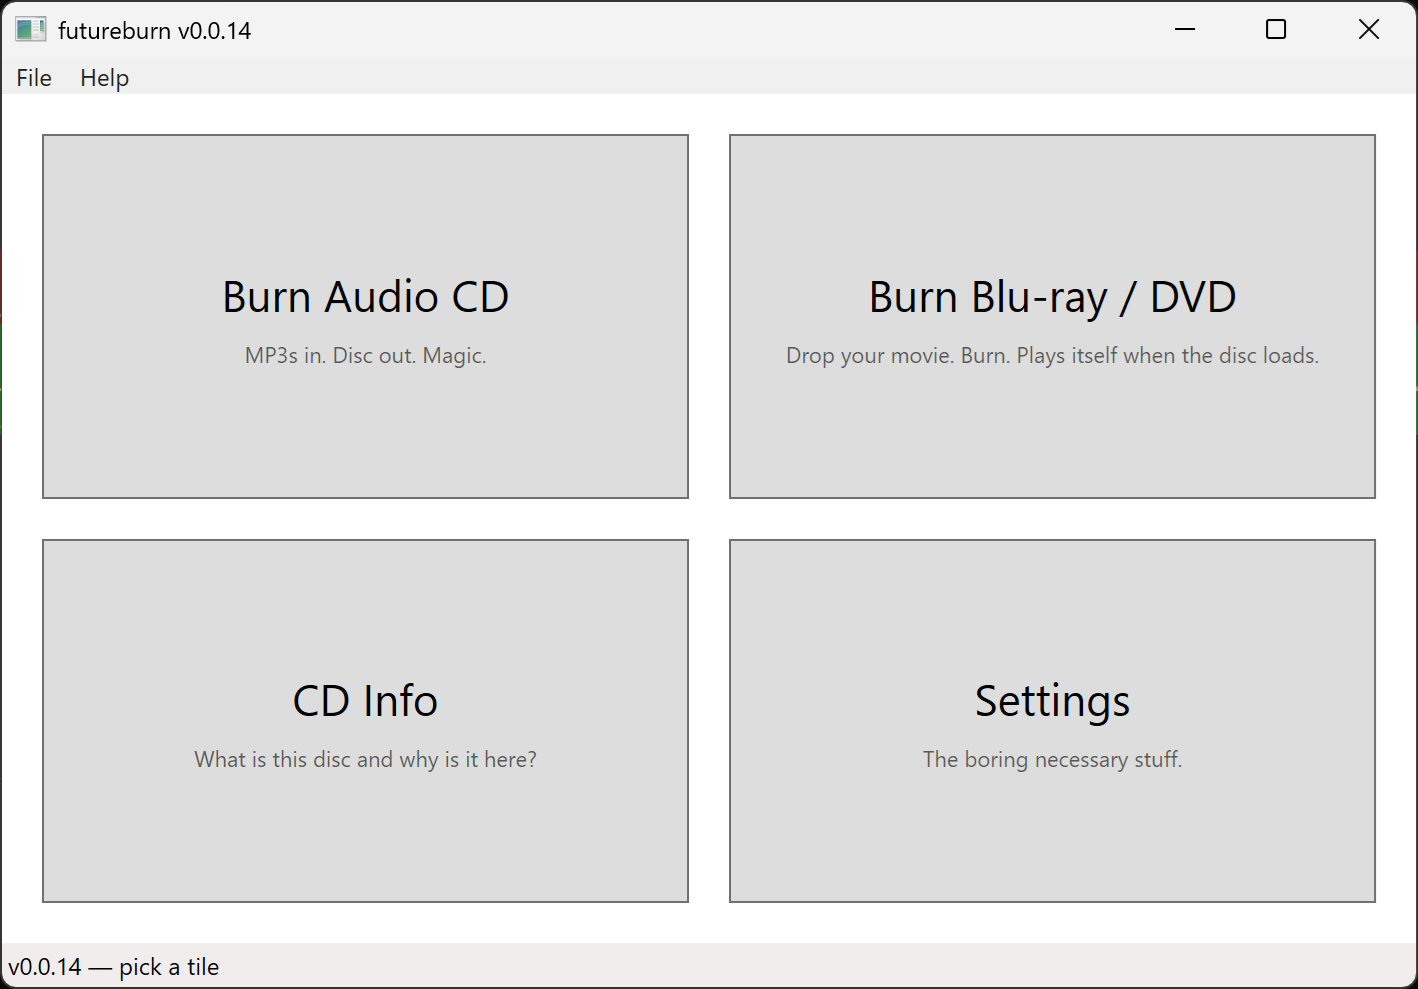
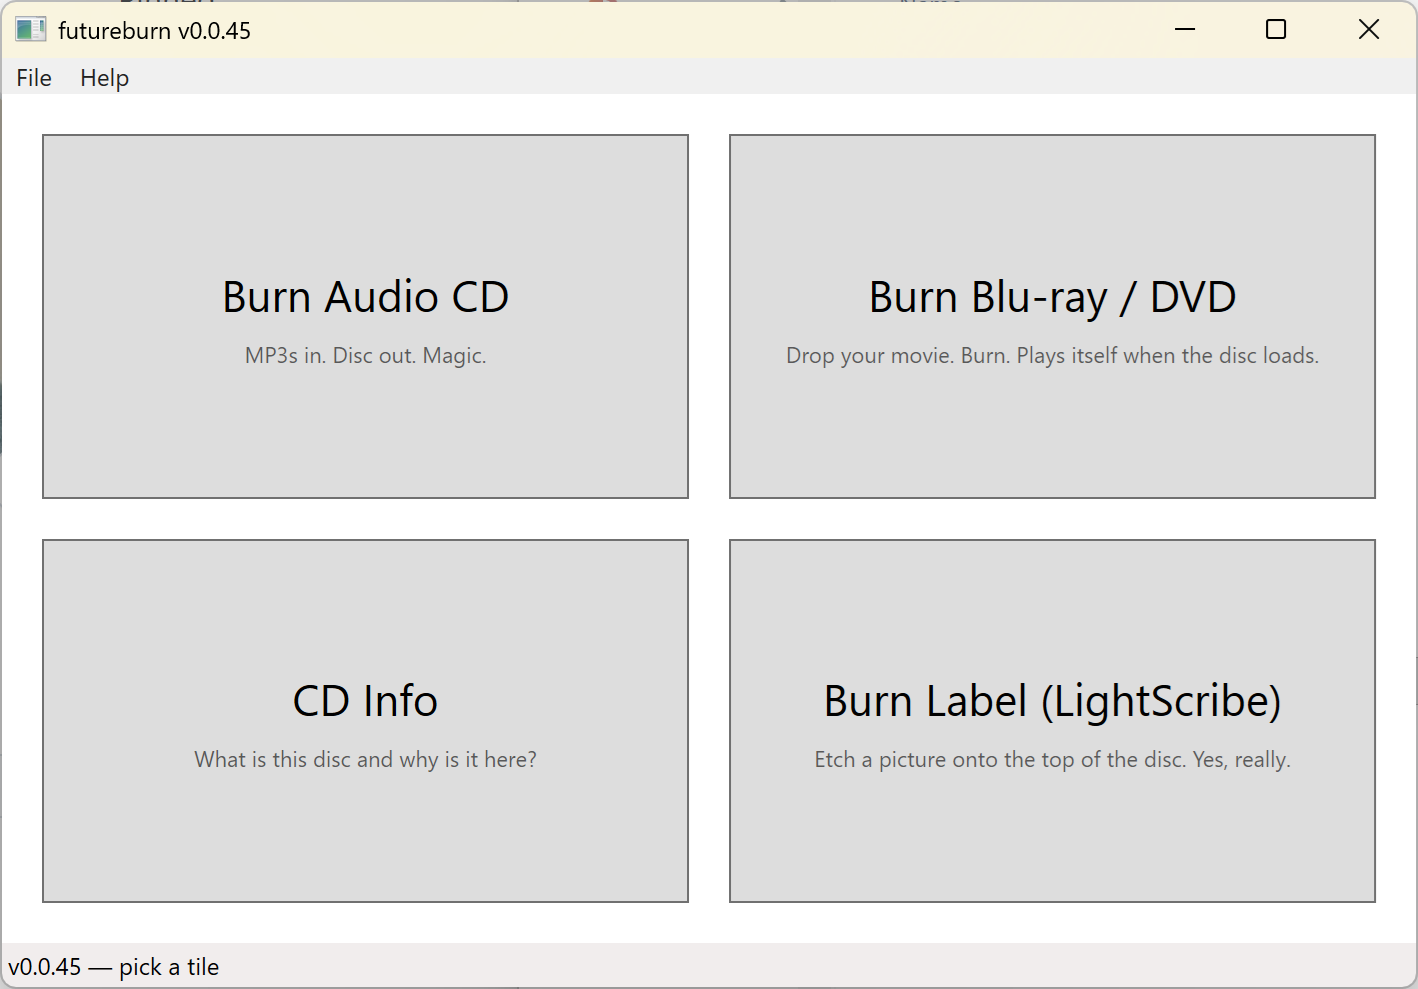
v0.0.46: fix GUI file dialogs hanging after the first one
Every common file dialog in the WPF GUI (Add files, Choose ISO/folder/
video, Choose image, Save M3U8) hung hard after the first one opened:
the second OpenFileDialog/OpenFolderDialog/SaveFileDialog shown on the
WPF UI thread froze inside the native dialog (CommonItemDialog.RunDialog
-> native, never returning; Windows reported AppHangB1). A captured
stack of the frozen UI thread confirmed the freeze was in the native
common-item-dialog modal loop.

- New FileDialogs helper runs every common dialog on its own fresh STA
  thread, so each is "the first" on a clean thread; the UI thread just
  awaits and keeps pumping. All seven dialog call sites across the three
  windows route through it.
- README screenshots refreshed: four-tile main window + the Burn
  Blu-ray / DVD window with the MKV->DVD "Choose video" workflow.

diff --git a/src/Futureburn.Gui/FileDialogs.cs b/src/Futureburn.Gui/FileDialogs.cs
@@ -1,0 +1,77 @@
+using Microsoft.Win32;
+
+namespace Futureburn.Gui;
+
+// Every Windows common file dialog in this app runs on its own fresh STA
+// thread — never the WPF UI thread.
+//
+// Why: on this host the SECOND common dialog shown on the WPF UI thread hangs
+// hard inside the native dialog — CommonItemDialog.RunDialog enters native code
+// and never returns, and Windows reports AppHangB1. The first dialog works;
+// every one after it deadlocks. A captured stack of the frozen UI thread
+// confirmed the freeze is inside the native common-item-dialog modal loop.
+//
+// Giving each dialog a brand-new STA thread sidesteps it completely: every
+// dialog is "the first" on a clean thread. The UI thread just awaits the
+// returned Task and keeps pumping messages, so the app stays responsive.
+//
+// Trade-off: the dialog isn't owner-parented to a window — purely cosmetic.
+
+internal static class FileDialogs
+{
+    /// <summary>Open-file picker. Returns the chosen path, or null if cancelled.</summary>
+    internal static Task<string?> OpenFileAsync(string title, string filter)
+        => RunAsync(() =>
+        {
+            var d = new OpenFileDialog { Title = title, Filter = filter };
+            return d.ShowDialog() == true ? d.FileName : null;
+        });
+
+    /// <summary>Multi-select open-file picker. Returns the paths, or null if cancelled.</summary>
+    internal static Task<string[]?> OpenFilesAsync(string title, string filter)
+        => RunAsync(() =>
+        {
+            var d = new OpenFileDialog { Title = title, Filter = filter, Multiselect = true };
+            return d.ShowDialog() == true ? d.FileNames : null;
+        });
+
+    /// <summary>Folder picker. Returns the chosen folder, or null if cancelled.</summary>
+    internal static Task<string?> OpenFolderAsync(string title)
+        => RunAsync(() =>
+        {
+            var d = new OpenFolderDialog { Title = title };
+            return d.ShowDialog() == true ? d.FolderName : null;
+        });
+
+    /// <summary>Save-file picker. Returns the chosen path, or null if cancelled.</summary>
+    internal static Task<string?> SaveFileAsync(
+        string title, string filter, string defaultFileName, string defaultExt)
+        => RunAsync(() =>
+        {
+            var d = new SaveFileDialog
+            {
+                Title      = title,
+                Filter     = filter,
+                FileName   = defaultFileName,
+                DefaultExt = defaultExt,
+            };
+            return d.ShowDialog() == true ? d.FileName : null;
+        });
+
+    // Run a dialog on a dedicated STA thread; complete the Task with its result.
+    private static Task<T> RunAsync<T>(Func<T> showDialog)
+    {
+        var tcs = new TaskCompletionSource<T>();
+        var thread = new Thread(() =>
+        {
+            try { tcs.SetResult(showDialog()); }
+            catch (Exception ex) { tcs.SetException(ex); }
+        })
+        {
+            IsBackground = true,
+        };
+        thread.SetApartmentState(ApartmentState.STA);
+        thread.Start();
+        return tcs.Task;
+    }
+}

diff --git a/src/Futureburn.Gui/BurnAudioCdWindow.xaml.cs b/src/Futureburn.Gui/BurnAudioCdWindow.xaml.cs
@@ -82,21 +82,18 @@ public partial class BurnAudioCdWindow : Window
         }
     }
 
-    private void AddFiles_Click(object sender, RoutedEventArgs e)
+    private async void AddFiles_Click(object sender, RoutedEventArgs e)
     {
-        var dlg = new Microsoft.Win32.OpenFileDialog
-        {
-            Filter = "Audio files|*.wav;*.mp3;*.m4a;*.aac;*.wma;*.flac|All files|*.*",
-            Multiselect = true,
-            Title = "Add audio tracks",
-        };
-        if (dlg.ShowDialog(this) != true) return;
+        var files = await FileDialogs.OpenFilesAsync(
+            "Add audio tracks",
+            "Audio files|*.wav;*.mp3;*.m4a;*.aac;*.wma;*.flac|All files|*.*");
+        if (files is null) return;
 
         Mouse.OverrideCursor = Cursors.Wait;
         try
         {
             int added = 0, skipped = 0;
-            foreach (var path in dlg.FileNames)
+            foreach (var path in files)
             {
                 if (TryAddTrack(path)) added++;
                 else skipped++;
@@ -217,44 +214,39 @@ public partial class BurnAudioCdWindow : Window
 
     // ---- Add folder + load/save playlist ---------------------------------
 
-    private void AddFolder_Click(object sender, RoutedEventArgs e)
+    private async void AddFolder_Click(object sender, RoutedEventArgs e)
     {
-        var dlg = new Microsoft.Win32.OpenFolderDialog
-        {
-            Title = "Choose a folder of audio files",
-        };
-        if (dlg.ShowDialog(this) != true) return;
+        var folder = await FileDialogs.OpenFolderAsync("Choose a folder of audio files");
+        if (folder is null) return;
         Mouse.OverrideCursor = Cursors.Wait;
         try
         {
-            var (added, skipped) = TryAddTracksFromFolder(dlg.FolderName);
+            var (added, skipped) = TryAddTracksFromFolder(folder);
             StatusText.Text = $"Added {added} track{(added == 1 ? "" : "s")} from folder" +
                               (skipped > 0 ? $" ({skipped} skipped)" : "") + ".";
         }
         finally { Mouse.OverrideCursor = null; }
     }
 
-    private void LoadPlaylist_Click(object sender, RoutedEventArgs e)
+    private async void LoadPlaylist_Click(object sender, RoutedEventArgs e)
     {
-        var dlg = new Microsoft.Win32.OpenFileDialog
-        {
-            Filter = "M3U / M3U8 playlists|*.m3u;*.m3u8|All files|*.*",
-            Title = "Load a playlist",
-        };
-        if (dlg.ShowDialog(this) != true) return;
+        var file = await FileDialogs.OpenFileAsync(
+            "Load a playlist",
+            "M3U / M3U8 playlists|*.m3u;*.m3u8|All files|*.*");
+        if (file is null) return;
         Mouse.OverrideCursor = Cursors.Wait;
         try
         {
-            var (added, skipped) = TryAddTracksFromPlaylist(dlg.FileName);
+            var (added, skipped) = TryAddTracksFromPlaylist(file);
             StatusText.Text = added == 0
                 ? "Couldn't load any tracks from that playlist."
-                : $"Loaded {added} track{(added == 1 ? "" : "s")} from {Path.GetFileName(dlg.FileName)}" +
+                : $"Loaded {added} track{(added == 1 ? "" : "s")} from {Path.GetFileName(file)}" +
                   (skipped > 0 ? $" ({skipped} skipped)" : "") + ".";
         }
         finally { Mouse.OverrideCursor = null; }
     }
 
-    private void SaveM3U_Click(object sender, RoutedEventArgs e)
+    private async void SaveM3U_Click(object sender, RoutedEventArgs e)
     {
         if (_tracks.Count == 0)
         {
@@ -262,14 +254,11 @@ public partial class BurnAudioCdWindow : Window
                 MessageBoxButton.OK, MessageBoxImage.Information);
             return;
         }
-        var dlg = new Microsoft.Win32.SaveFileDialog
-        {
-            Filter = "Extended M3U8|*.m3u8|All files|*.*",
-            DefaultExt = ".m3u8",
-            FileName = "playlist.m3u8",
-            Title = "Save current track list as M3U8",
-        };
-        if (dlg.ShowDialog(this) != true) return;
+        var savePath = await FileDialogs.SaveFileAsync(
+            "Save current track list as M3U8",
+            "Extended M3U8|*.m3u8|All files|*.*",
+            defaultFileName: "playlist.m3u8", defaultExt: ".m3u8");
+        if (savePath is null) return;
 
         var sb = new StringBuilder();
         sb.AppendLine("#EXTM3U");
@@ -279,8 +268,8 @@ public partial class BurnAudioCdWindow : Window
             sb.AppendLine($"#EXTINF:{seconds},{t.Title}");
             sb.AppendLine(t.FullPath);
         }
-        File.WriteAllText(dlg.FileName, sb.ToString());
-        StatusText.Text = $"Saved {_tracks.Count} tracks to {dlg.FileName}.";
+        File.WriteAllText(savePath, sb.ToString());
+        StatusText.Text = $"Saved {_tracks.Count} tracks to {savePath}.";
     }
 
     private void MoveUp_Click(object sender, RoutedEventArgs e)

diff --git a/src/Futureburn.Gui/BurnImageWindow.xaml.cs b/src/Futureburn.Gui/BurnImageWindow.xaml.cs
@@ -47,17 +47,15 @@ public partial class BurnImageWindow : Window
         UpdateDriveDiscText();
     }
 
-    private void ChooseIso_Click(object sender, RoutedEventArgs e)
+    private async void ChooseIso_Click(object sender, RoutedEventArgs e)
     {
-        var dlg = new Microsoft.Win32.OpenFileDialog
-        {
-            Filter = "Disc images|*.iso;*.img;*.bin|All files|*.*",
-            Title = "Choose an ISO image to burn",
-        };
-        if (dlg.ShowDialog(this) != true) return;
+        var path = await FileDialogs.OpenFileAsync(
+            "Choose an ISO image to burn",
+            "Disc images|*.iso;*.img;*.bin|All files|*.*");
+        if (path is null) return;
 
         CleanupTempIso();   // discard any previous folder-built temp
-        _isoPath = dlg.FileName;
+        _isoPath = path;
         var fi = new FileInfo(_isoPath);
         _isoBytes = fi.Length;
         IsoPathText.Text = _isoPath;
@@ -69,13 +67,10 @@ public partial class BurnImageWindow : Window
 
     private async void ChooseFolder_Click(object sender, RoutedEventArgs e)
     {
-        var dlg = new Microsoft.Win32.OpenFolderDialog
-        {
-            Title = "Choose a folder to burn (we'll build the ISO 9660 + Joliet + UDF image)",
-        };
-        if (dlg.ShowDialog(this) != true) return;
+        var folder = await FileDialogs.OpenFolderAsync(
+            "Choose a folder to burn (we'll build the ISO 9660 + Joliet + UDF image)");
+        if (folder is null) return;
 
-        var folder = dlg.FolderName;
         var label = Path.GetFileName(folder);
         if (string.IsNullOrEmpty(label)) label = "FUTUREBURN";
 
@@ -128,14 +123,11 @@ public partial class BurnImageWindow : Window
 
     private async void ChooseVideo_Click(object sender, RoutedEventArgs e)
     {
-        var dlg = new Microsoft.Win32.OpenFileDialog
-        {
-            Filter = "Video files|*.mkv;*.mp4;*.avi;*.m4v;*.mov;*.webm;*.wmv;*.ts;*.m2ts|All files|*.*",
-            Title  = "Choose a video to author + burn as a DVD-Video",
-        };
-        if (dlg.ShowDialog(this) != true) return;
+        var video = await FileDialogs.OpenFileAsync(
+            "Choose a video to author + burn as a DVD-Video",
+            "Video files|*.mkv;*.mp4;*.avi;*.m4v;*.mov;*.webm;*.wmv;*.ts;*.m2ts|All files|*.*");
+        if (video is null) return;
 
-        var video          = dlg.FileName;
         var label          = Path.GetFileNameWithoutExtension(video);
         var authoredFolder = Path.Combine(Path.GetTempPath(), $"futureburn-dvdv-{Guid.NewGuid():N}");
         var tempIso        = Path.Combine(Path.GetTempPath(), $"futureburn-build-{Guid.NewGuid():N}.iso");

diff --git a/src/Futureburn.Gui/BurnLightScribeWindow.xaml.cs b/src/Futureburn.Gui/BurnLightScribeWindow.xaml.cs
@@ -1,7 +1,6 @@
 using System.IO;
 using System.Windows;
 using System.Windows.Media.Imaging;
-using Microsoft.Win32;
 using Futureburn.Core.LightScribe;
 
 namespace Futureburn.Gui;
@@ -64,17 +63,25 @@ public partial class BurnLightScribeWindow : Window
         UpdateBurnButton();
     }
 
-    private void ChooseImage_Click(object sender, RoutedEventArgs e)
+    private async void ChooseImage_Click(object sender, RoutedEventArgs e)
     {
-        var dlg = new OpenFileDialog
+        string? path;
+        try
         {
-            Title  = "Pick a label image",
-            Filter = "Images|*.png;*.jpg;*.jpeg;*.bmp;*.gif;*.tif;*.tiff" +
-                     "|PNG|*.png|JPEG|*.jpg;*.jpeg|BMP|*.bmp|All files|*.*",
-        };
-        if (dlg.ShowDialog(this) != true) return;
+            path = await FileDialogs.OpenFileAsync(
+                "Pick a label image",
+                "Images|*.png;*.jpg;*.jpeg;*.bmp;*.gif;*.tif;*.tiff" +
+                "|PNG|*.png|JPEG|*.jpg;*.jpeg|BMP|*.bmp|All files|*.*");
+        }
+        catch (Exception ex)
+        {
+            MessageBox.Show(this, $"Couldn't open the file picker:\n{ex.Message}",
+                "Choose image", MessageBoxButton.OK, MessageBoxImage.Warning);
+            return;
+        }
+        if (path is null) return;
 
-        SetImage(dlg.FileName);
+        SetImage(path);
     }
 
     private void SetImage(string path)

diff --git a/CHANGELOG.md b/CHANGELOG.md
@@ -4,6 +4,15 @@ All notable changes to futureburn will land here. Format roughly follows [Keep a
 
 ## [Unreleased]
 
+## [0.0.46] — 2026-05-21
+
+### Fixed — GUI file dialogs hung after the first one
+Every common file dialog in the WPF GUI (Add files, Choose ISO/folder/video, Choose image, Save M3U8) hung hard after the first one opened in a session — the second `OpenFileDialog` / `OpenFolderDialog` / `SaveFileDialog` shown on the WPF UI thread froze inside the native dialog (`CommonItemDialog.RunDialog` → native, never returning; Windows reported `AppHangB1`). A captured stack of the frozen UI thread confirmed the freeze sat in the native common-item-dialog modal loop.
+- New `FileDialogs` helper runs every common dialog on its own fresh STA thread, so each one is "the first" on a clean thread; the UI thread just awaits and keeps pumping. All seven dialog call sites across the three windows now route through it.
+
+### Changed
+- README screenshots refreshed — the four-tile main window, plus a new shot of the Burn Blu-ray / DVD window with its MKV→DVD "Choose video" workflow.
+
 ## [0.0.45] — 2026-05-21
 
 ### Added — recent features wired into the WPF GUI

diff --git a/README.md b/README.md
@@ -60,6 +60,10 @@ The four-tile main window — pick what you want to do:
 
 ![Burn Audio CD window](docs/screenshots/burn-audio-cd.png)
 
+**Burn Blu-ray / DVD** — hand it a ready ISO or a folder, or hit **Choose video** and feed it an MKV / MP4 — it transcodes that into a real DVD-Video, chapters, audio tracks and subtitles and all, then burns a disc that plays in a DVD player:
+
+![Burn Blu-ray / DVD window](docs/screenshots/burn-dvd.png)
+
 **CD Info** — full SCSI readout of whatever's loaded: drive capabilities, finalization status, and complete TOC with per-track type and duration. Same data the CLI's `cd-info` command surfaces, just clickable:
 
 ![CD Info window](docs/screenshots/cd-info.png)